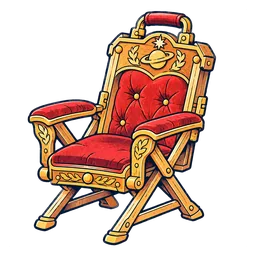
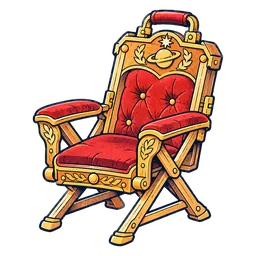
Images des Bizarreries, détourage amélioré, soute qui tient à l'écran
- les 5 objets de la série Bizarreries : la soute est entièrement illustrée
- le cube impossible arrivait sur un faux damier ; l'outil de détourage
  reconnaît aussi les damiers plus foncés et efface les miettes isolées ;
  le trône et le squelette sont refaits avec, plus propres
- la grille de la soute débordait de l'écran sur téléphone (depuis toujours) :
  le mot « Bizarreries » élargissait sa colonne et poussait la quatrième hors
  de la fenêtre ; colonnes à largeur fixe, en-têtes à taille souple, et une
  césure propre « Bizarre-ries » quand la place manque

Claude-Session: https://claude.ai/code/session_01RhB1pCaJN15SemUTb72qnL

diff --git a/css/style.css b/css/style.css
@@ -85,8 +85,8 @@ button[disabled] { opacity: 0.5; cursor: default; }
 .gris { color: var(--encre-douce); font-size: 14px; font-style: italic; }
 /* la soute */
 #legende { min-height: 5.6em; }
-.grille { display: grid; grid-template-columns: repeat(4, 1fr); gap: 7px 9px; margin: 12px 0; touch-action: none; }
-.colonne { font-family: "Bowlby One", "Arial Black", Impact, sans-serif; font-size: 12px; text-align: center; padding: 4px 2px 3px; border: 1.5px solid var(--encre); border-radius: 3px; line-height: 1.1; }
+.grille { display: grid; grid-template-columns: repeat(4, minmax(0, 1fr)); gap: 7px 9px; margin: 12px 0; touch-action: none; }
+.colonne { font-family: "Bowlby One", "Arial Black", Impact, sans-serif; font-size: clamp(9px, 2.9vw, 12px); min-width: 0; hyphens: manual; text-align: center; padding: 4px 2px 3px; border: 1.5px solid var(--encre); border-radius: 3px; line-height: 1.1; }
 .case { aspect-ratio: 1; background: rgba(27,36,81,0.05); border: 1.5px dashed rgba(27,36,81,0.3); border-radius: 3px; display: flex; align-items: center; justify-content: center; }
 .tuile { width: 86%; height: 86%; border: 1.5px solid var(--encre); border-radius: 3px; box-shadow: 2px 2px 0 var(--encre); display: flex; flex-direction: column; align-items: center; justify-content: center; color: var(--encre); cursor: grab; transition: transform 0.15s; position: relative; }
 .tuile span { font-family: "Bowlby One", "Arial Black", Impact, sans-serif; font-size: 20px; line-height: 1; }

diff --git a/js/soute.js b/js/soute.js
@@ -42,7 +42,7 @@ function ouvrirSoute(message) {
   const lignes = Math.max(6, ...soute.map(o => o.ligne + 2));
   let html = '<div class="texte"><h2>La soute</h2><div class="sous">Le vaisseau de ' + joueur.nom + ', ' + soute.length + ' objet' + (soute.length > 1 ? 's' : '') + ' à bord</div>';
   html += '<div class="grille" id="grille">';
-  for (const serie of SERIES_ORDRE) html += '<div class="colonne" style="background:' + SERIE_COUL[serie] + '">' + ico(serie) + SERIE_NOM[serie] + '</div>';
+  for (const serie of SERIES_ORDRE) html += '<div class="colonne" style="background:' + SERIE_COUL[serie] + '">' + ico(serie) + SERIE_NOM[serie].replace("Bizarreries", "Bizarre\u00adries") + '</div>';
   for (let l = 0; l < lignes; l++) for (const serie of SERIES_ORDRE) {
     const o = soute.find(x => x.serie === serie && x.ligne === l);
     html += '<div class="case" data-serie="' + serie + '" data-ligne="' + l + '">' + (o ? '<div class="tuile" data-id="' + o.id + '" style="background:' + SERIE_COUL[serie] + '">' + imageObjet(serie, o.palier || 1) + ico(serie) + '<span>' + ROMAINS[(o.palier || 1) - 1] + '</span></div>' : '') + '</div>';
